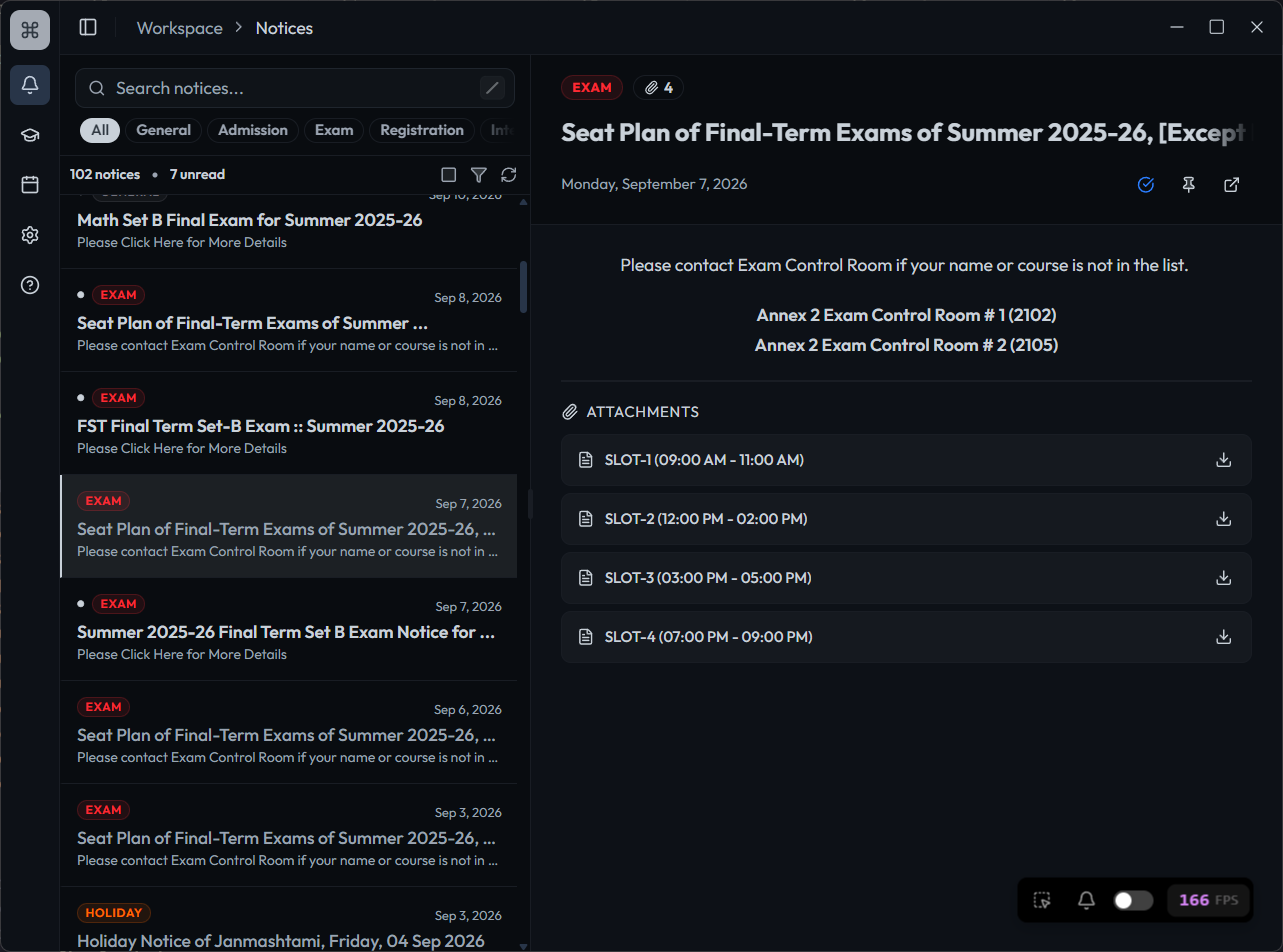
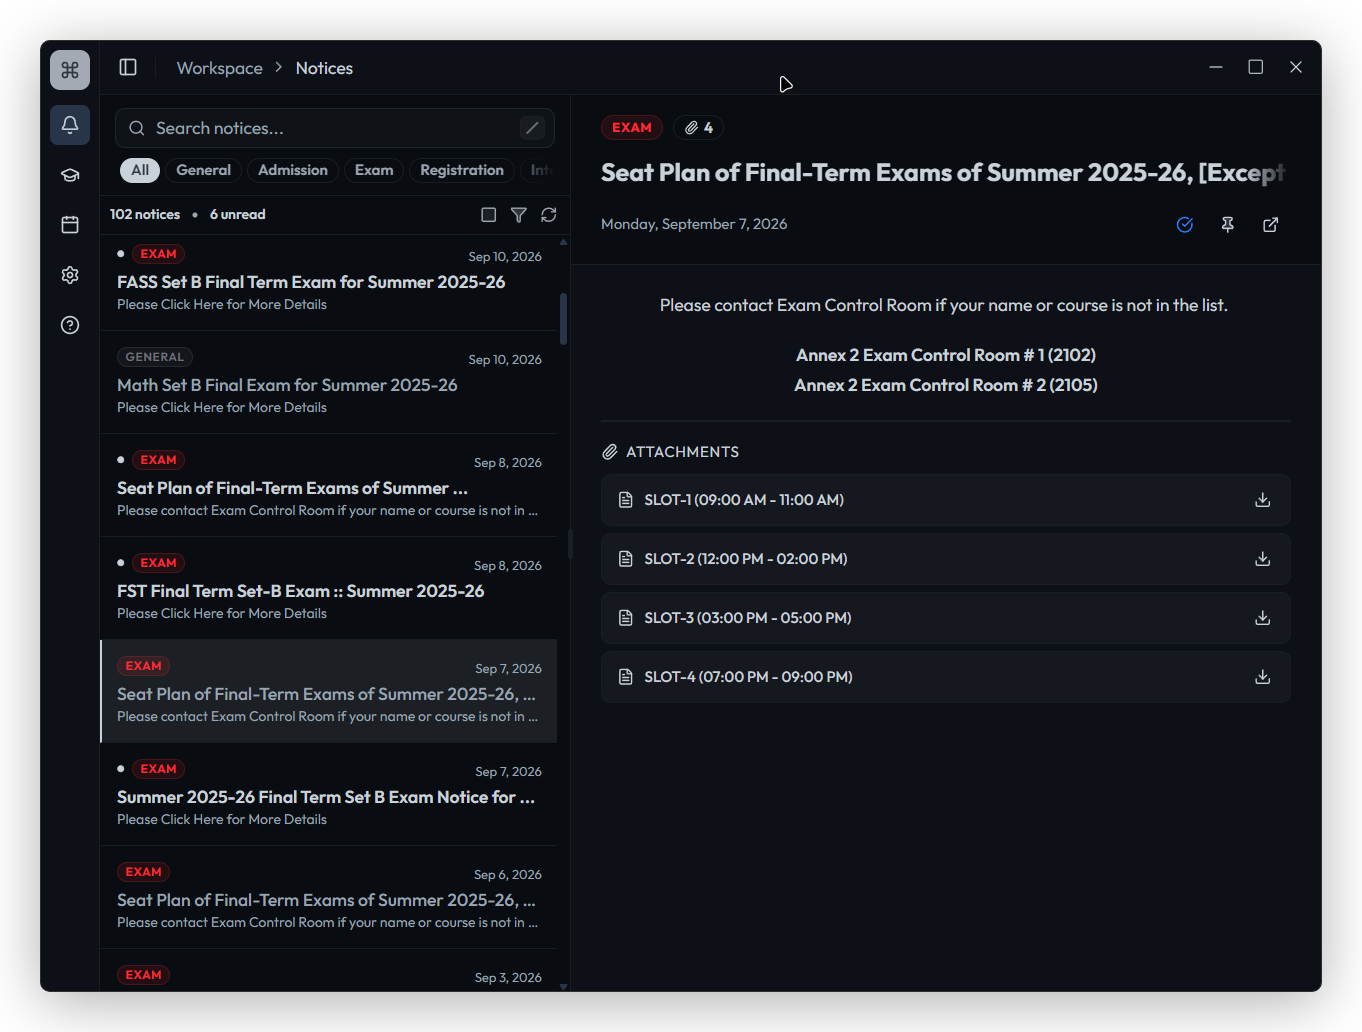
docs: update product image

diff --git a/README.md b/README.md
@@ -10,7 +10,7 @@ A desktop app for AIUB students that pulls in university notices, lets you manag
 
 Built with Go + Wails v3 on the backend and React 19 + Tailwind CSS v4 on the frontend.
 
-![img](assets/aiub-companion.png)
+![aiub-companion](assets/aiub-companion.png)
 
 ## Features
 
